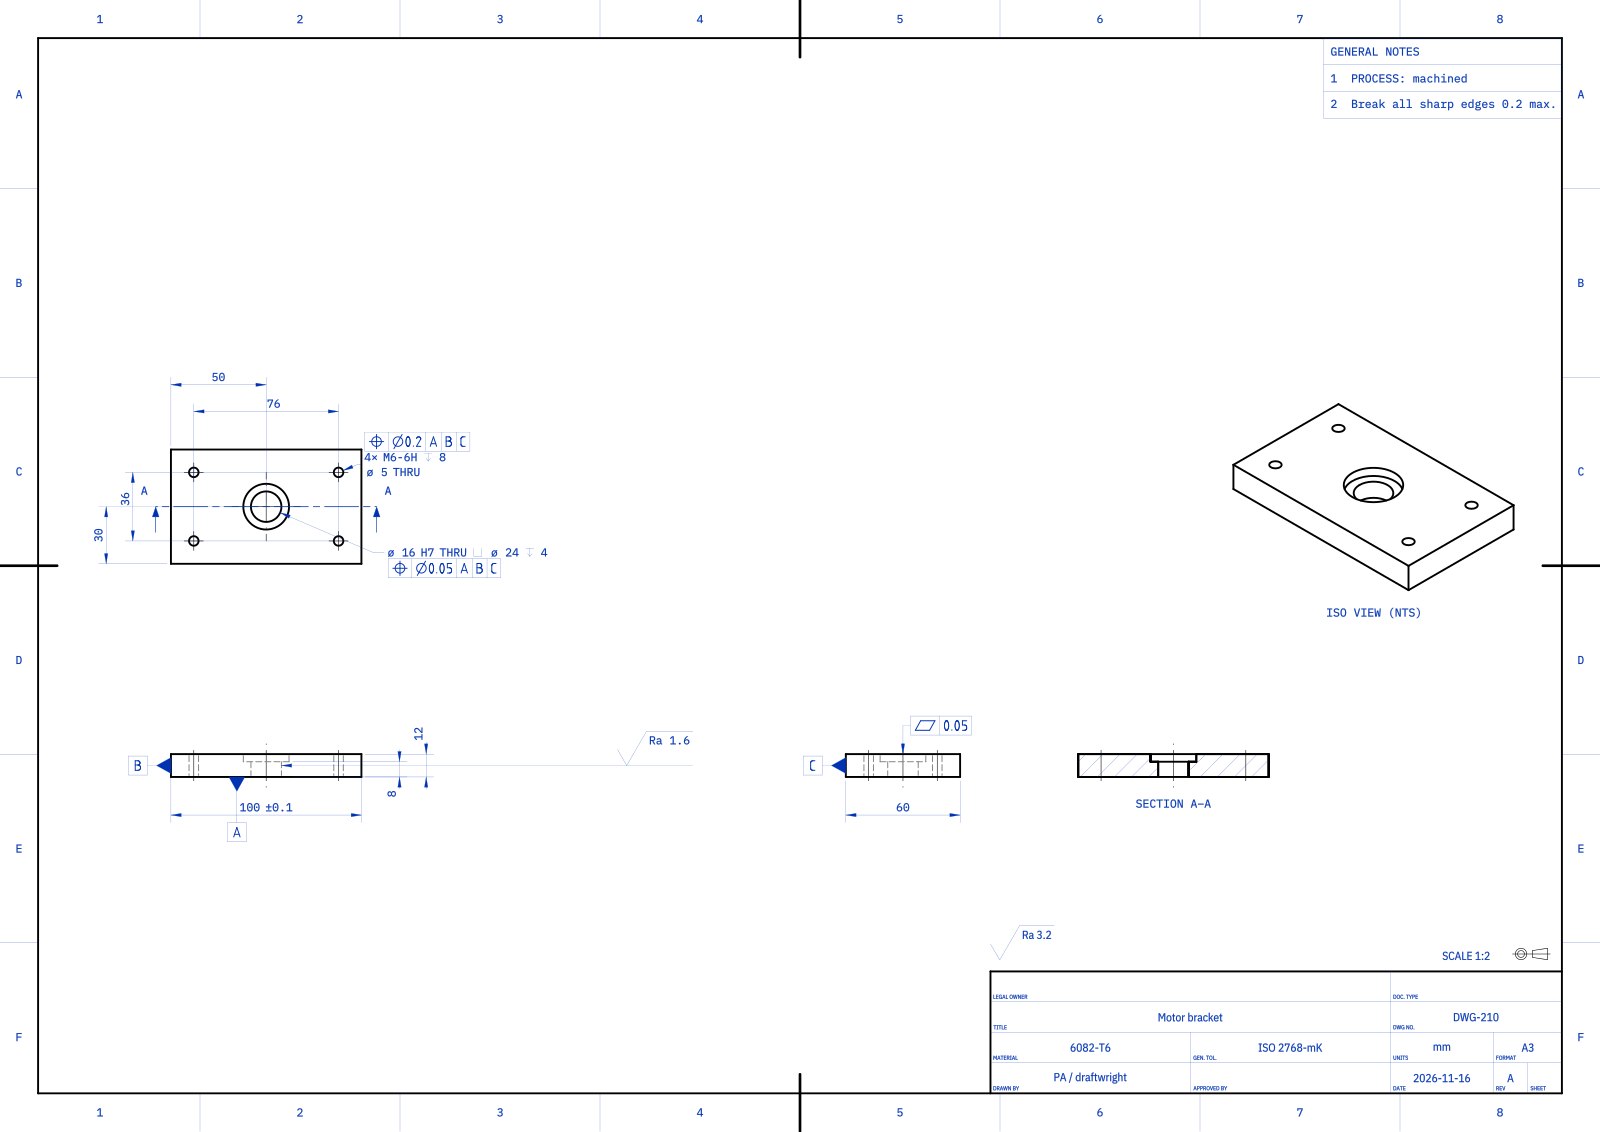
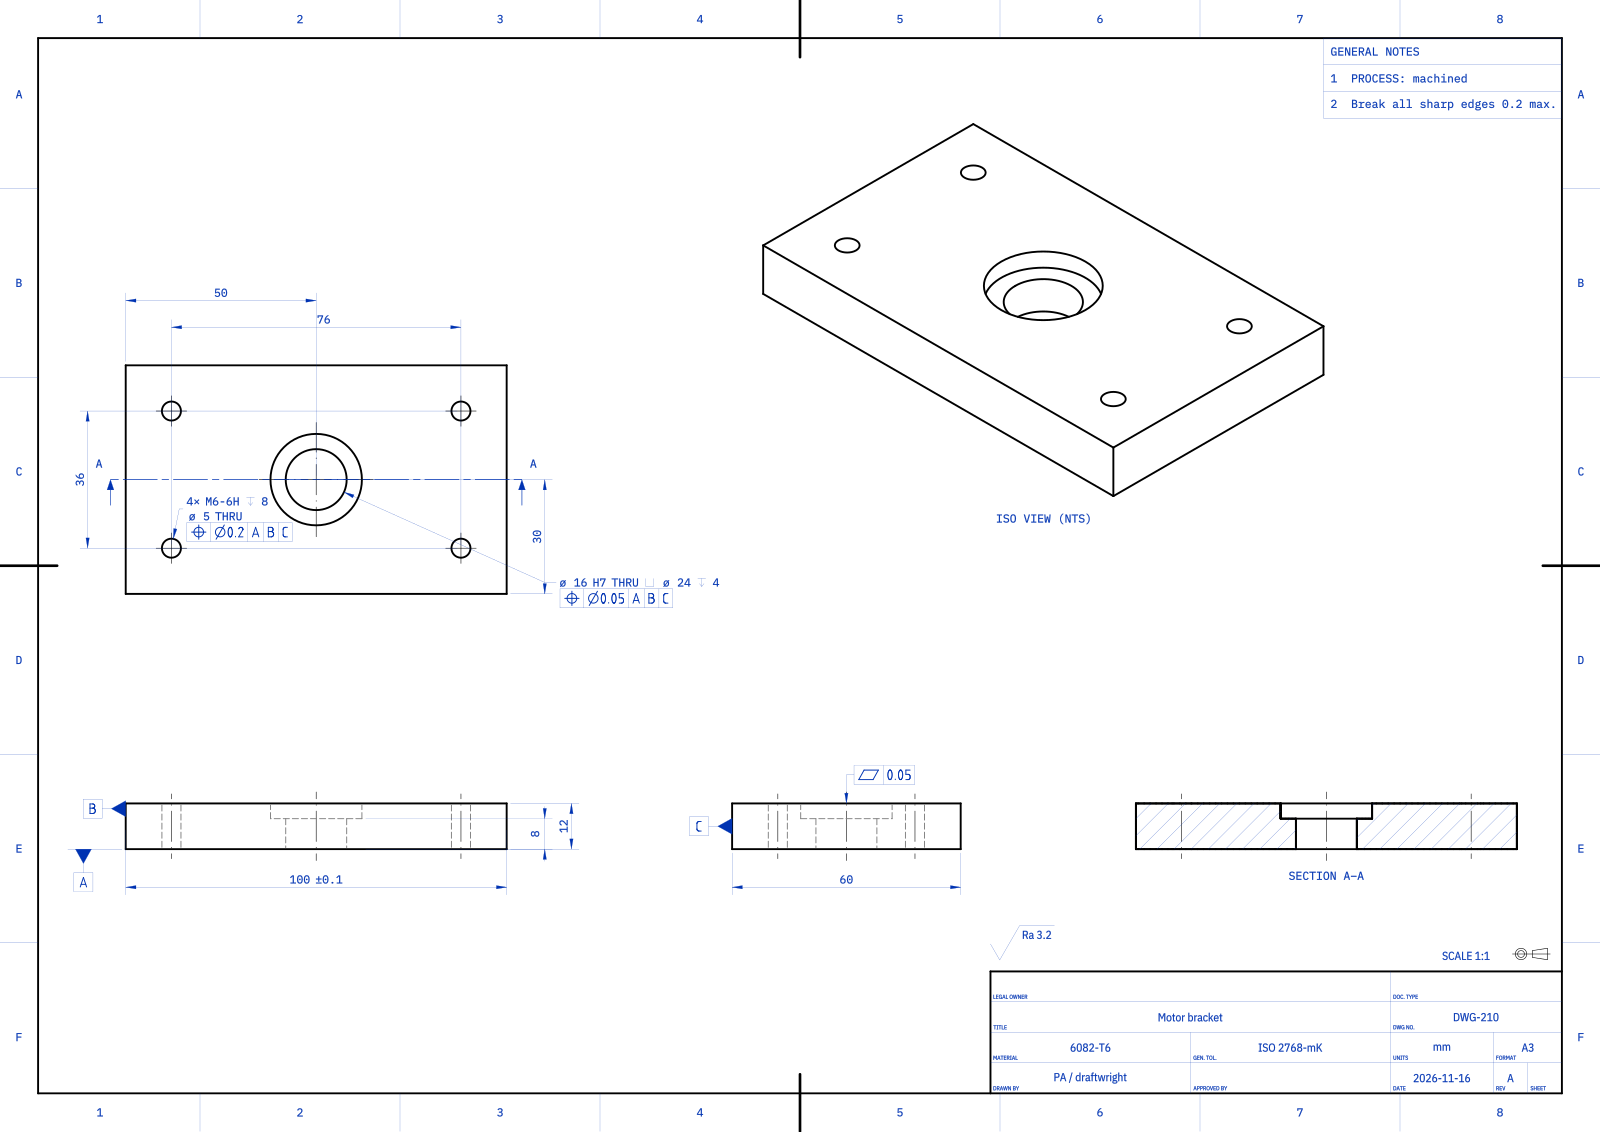
build123d page: fuller step 3 at A3 1:1; drop the assembly front image for now
Claude-Session: https://claude.ai/code/session_016GmpQtjJzqbE5JGVExhGiL

diff --git a/docs/build123d.md b/docs/build123d.md
@@ -1,16 +1,10 @@
 # Drawings from build123d
 
-<p align="center">
-  <img src="images/build123d-pack-ga.png" alt="General assembly sheet of a motorcycle shock absorber: front and side views, section A–A, an isometric view, item balloons and a ten-line parts list" width="100%">
-  <br>
-  <sub>The general-assembly sheet from a ten-part drawing pack of a text-to-CAD shock absorber,
-  made by <code>Pack("motorcycle-shock-absorber.step", ...)</code> with no other input.</sub>
-</p>
-
 Draftwright turns a build123d part into a manufacturing drawing: views, dimensions,
 hole and thread callouts, GD&T frames, surface finish, notes and a title block. You
 state requirements in the same script that builds the faces; the engine does the
-layout. This page builds one part up in three steps, then covers assemblies. The
+layout. This page starts with a bare shape and builds one part up in three steps,
+then covers assemblies. The
 [Python reference](python.md) has every call, argument and error in detail.
 
 ## Install
@@ -66,7 +60,7 @@ p.holes(tapped).thread("M6", depth=8)       # minimum full-thread depth
 ends = bracket.faces().sort_by(Axis.X)
 p.distance(ends[0], ends[-1]).tolerance(plus_minus=0.1)
 
-dwg = p.drawing(sheet="A3")
+dwg = p.drawing(sheet="A3", scale=1)        # pin the sheet so the steps compare
 svg, pdf = dwg.render("step2", formats=("svg", "pdf"))
 ```
 
@@ -98,7 +92,7 @@ A = p.datum("A", bracket.faces().sort_by(Axis.Z)[0])
 B = p.datum("B", ends[0])
 C = p.datum("C", bracket.faces().sort_by(Axis.Y)[0])
 
-bearing.position(0.05, A, B, C).finish(1.6)
+bearing.position(0.05, A, B, C)
 p.holes(tapped).position(0.2, A, B, C)
 p.face(bracket.faces().sort_by(Axis.Z)[-1]).flatness(0.05)
 p.note("Break all sharp edges 0.2 max.").default_finish(3.2)
@@ -112,10 +106,9 @@ for f in dwg.problems:
 
 ![Step 3: datums, position and flatness frames, surface finish and notes](images/build123d-step3.png)
 
-The datum symbols, position and flatness frames, the bore's Ra 1.6 and the
-default Ra 3.2 are added, and the note joins the notes table. To make room, the
-engine moved from 1:1 to 1:2 on the same A3 sheet; `problems` reports that as
-`layout_replanned`.
+Datum symbols A, B and C, the two position frames, the flatness frame and the
+part-wide Ra 3.2 are added, and the note joins the notes table. A finish on one
+surface is `face(f).finish(1.6)` or `hole(h).finish(1.6)`.
 
 Also available: `perpendicularity`, `parallelism`, `cylindricity`,
 `circular_runout`, `total_runout`, `profile_surface` and `concentricity`. Declare a
